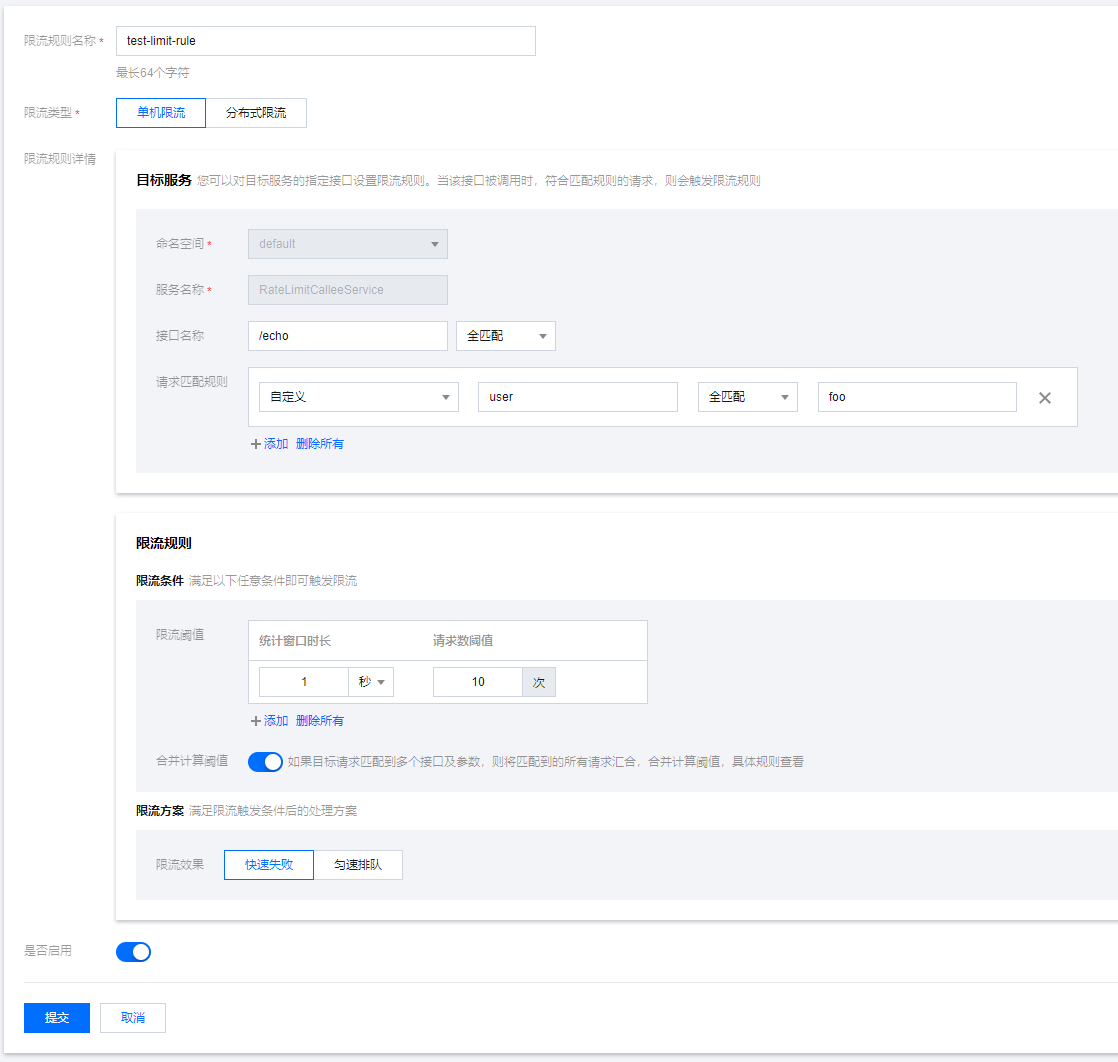
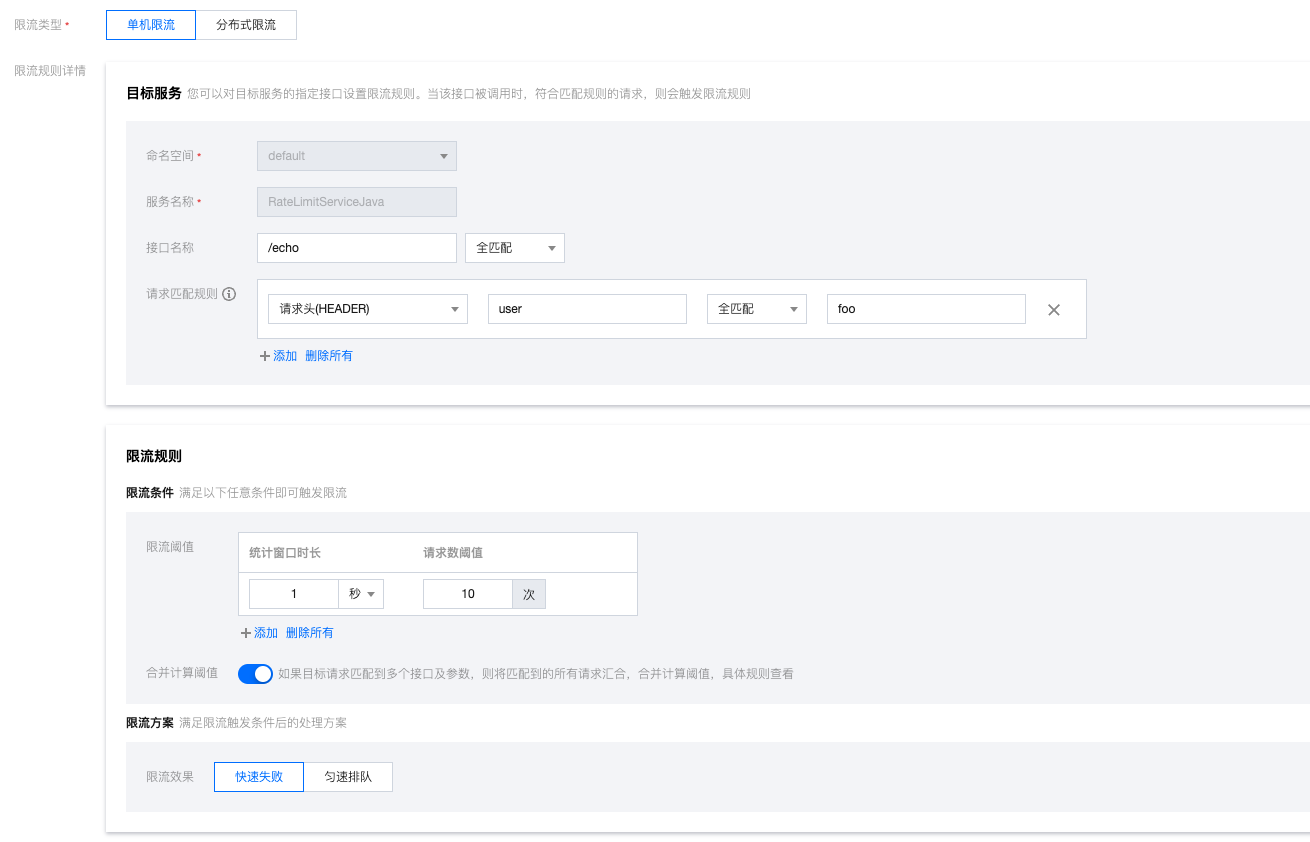
docs:优化热点参数限流场景的控制台使用 (#316)

diff --git a/content/zh-cn/docs/使用指南/控制台使用/服务网格/访问限流.md b/content/zh-cn/docs/使用指南/控制台使用/服务网格/访问限流.md
@@ -82,9 +82,9 @@ weight: 3
 
 ![](../图片/访问限流/服务级单机限流.png)
 
-### 针对接口+标签进行细粒度限流
+### 针对接口+标签进行细粒度限流（如热点参数场景）
 
-在RateLimitServiceJava服务下新建限流规则，指定QPS为10，方法名为/echo，标签键为user，值为foo，限流效果选择直接拒绝。
+在 RateLimitServiceJava 服务下新建限流规则，指定QPS为10，方法名为/echo，针对 http 请求中的 header user=foo 进行限流，限流效果选择直接拒绝。
 
 ![](../图片/访问限流/新建接口级单机限流规则.png)
 
